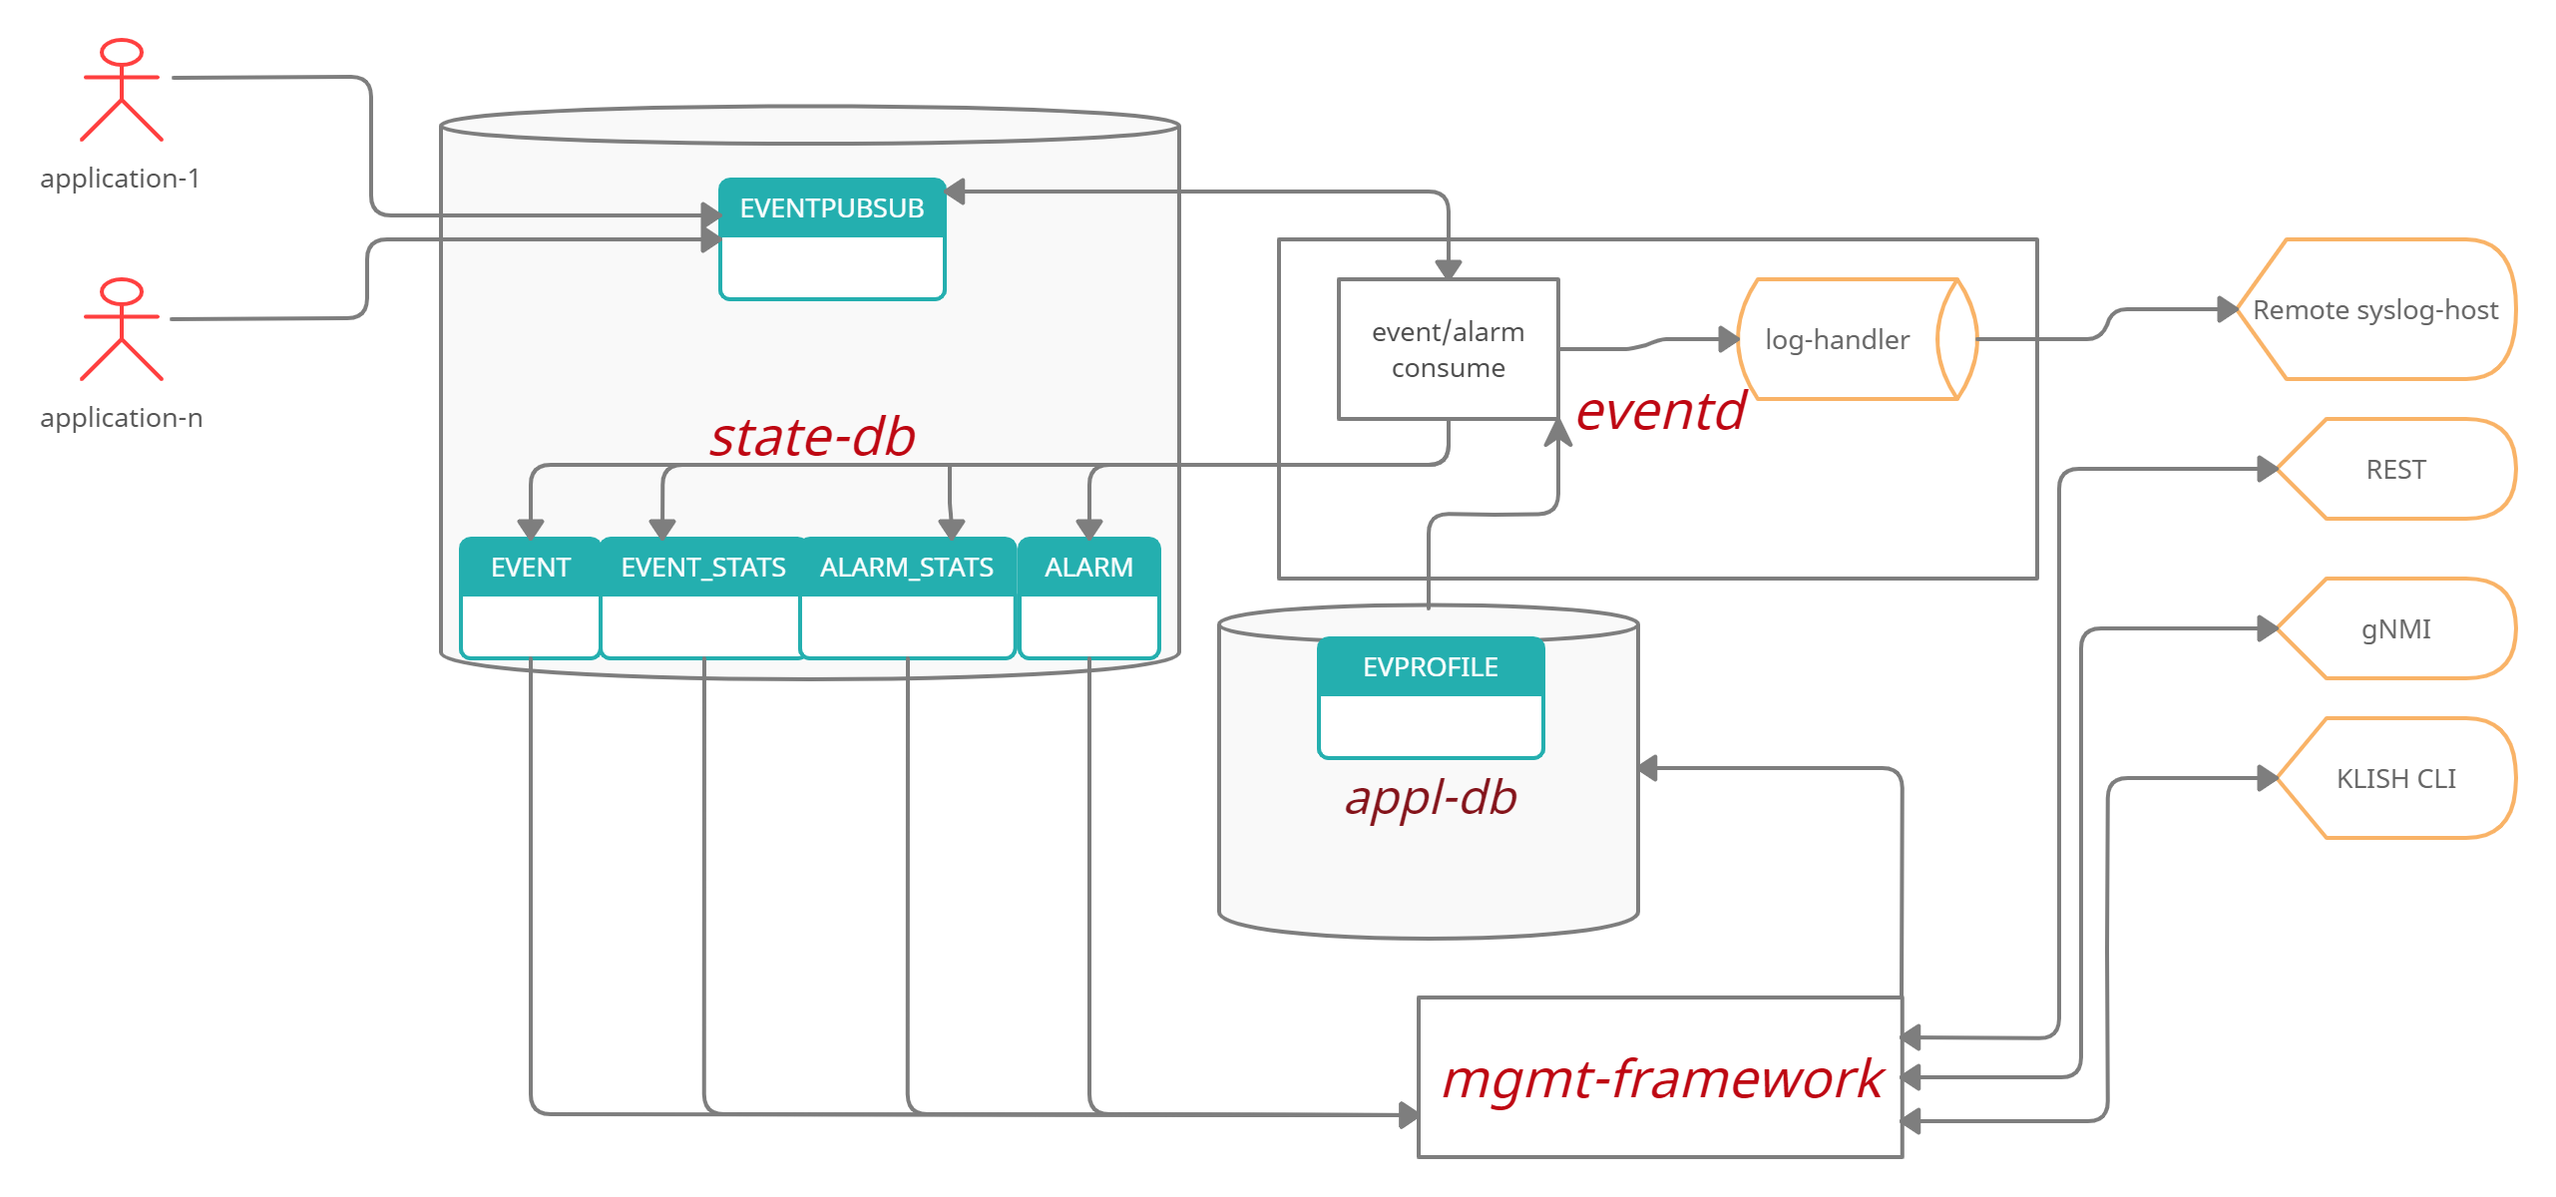
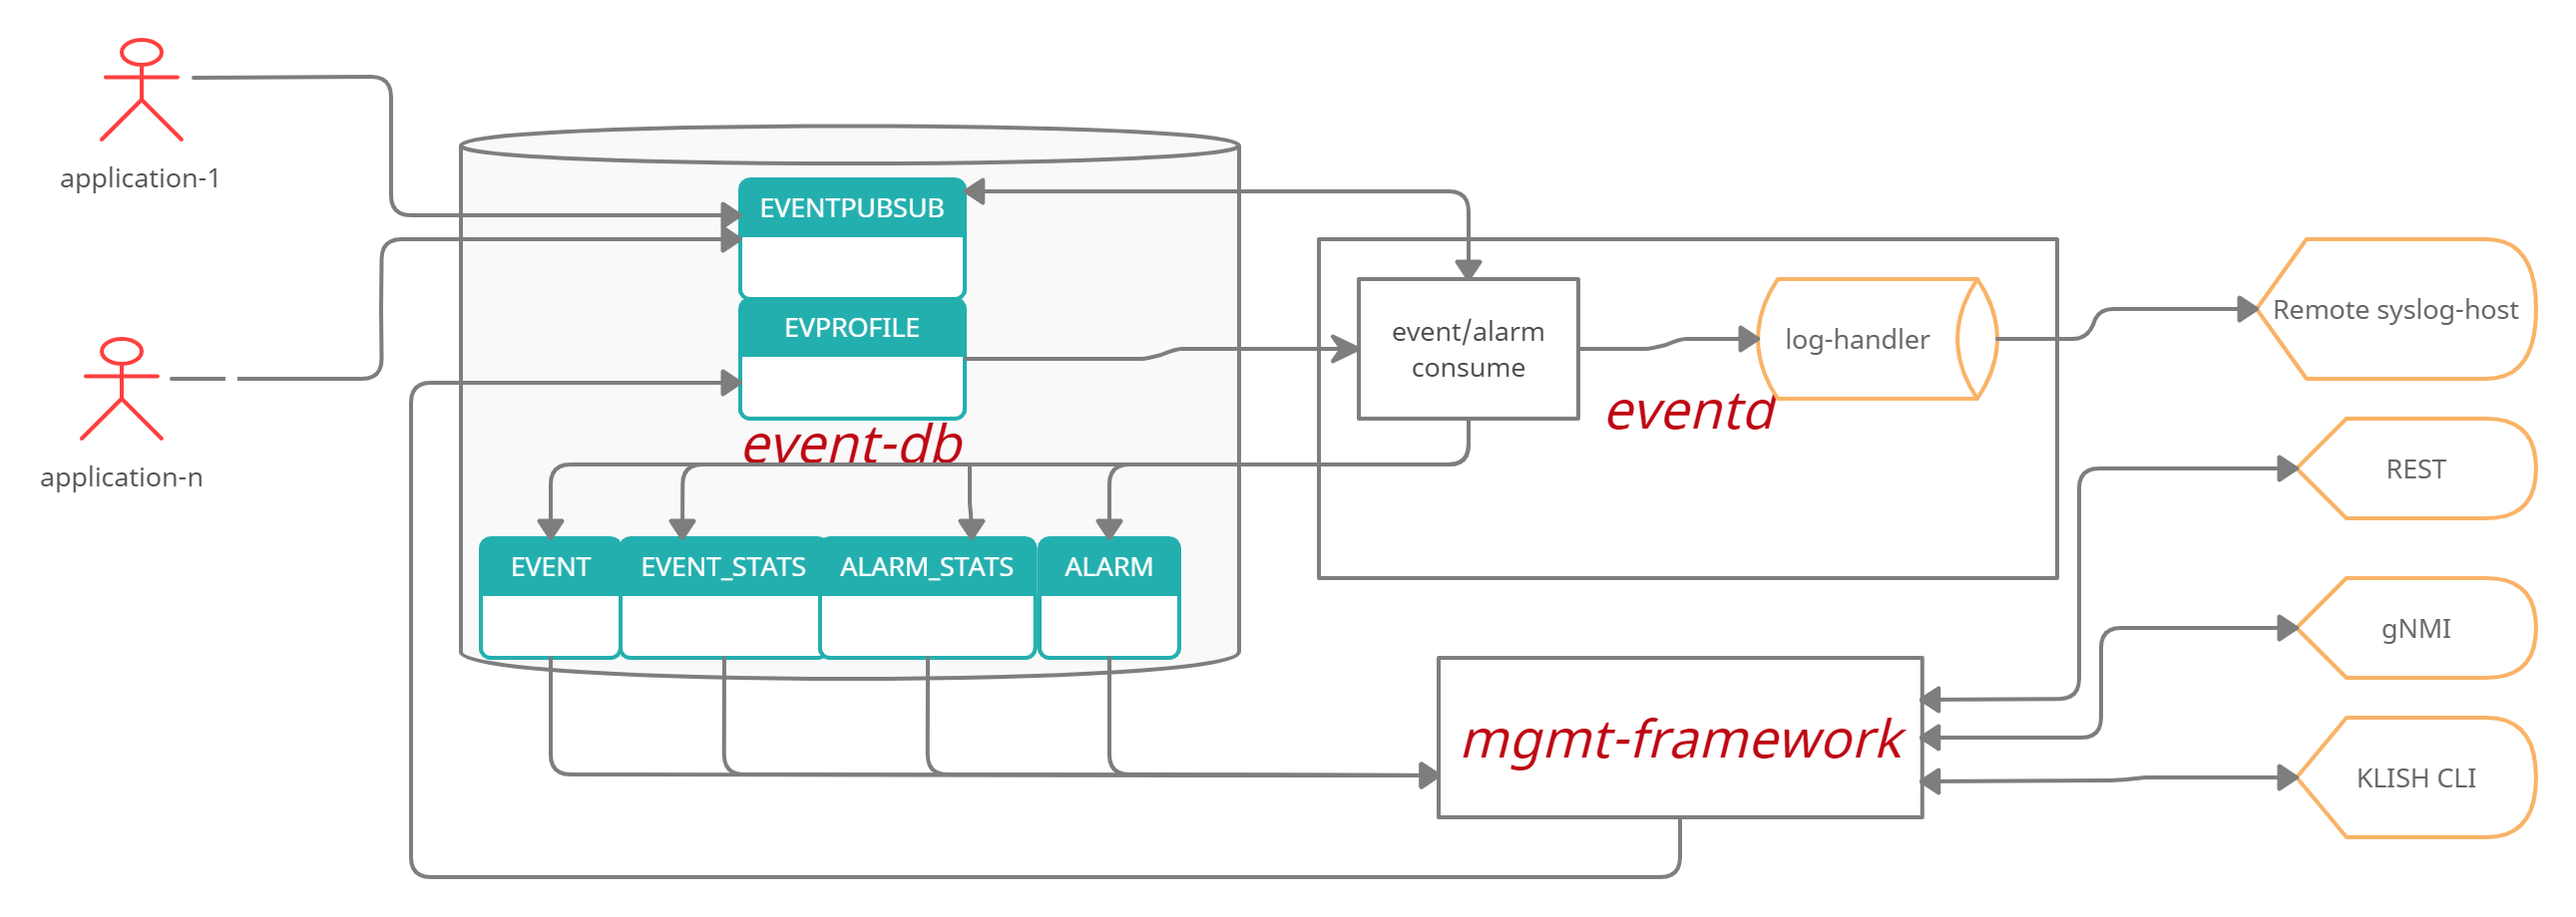
added information on the new DB

diff --git a/doc/event-alarm-framework/event-alarm-framework.md b/doc/event-alarm-framework/event-alarm-framework.md
@@ -37,8 +37,7 @@ Event and Alarm Framework
       * [3.1.8 Pull Model](#318-pull-model)
       * [3.1.9 Supporting third party containers](#319-supporting-third-party-containers)
     * [3.2 DB Changes](#32-db-changes)
-      * [3.2.1 STATE DB](#321-state-db)
-      * [3.2.2 APPL DB](#322-appl-db)
+      * [3.2.1 EVENT DB](#321-event-db)
     * [3.3 User Interface](#33-user-interface)
       * [3.3.1 Data Models](#331-data-models)
       * [3.3.2 CLI](#332-cli)
@@ -100,9 +99,9 @@ Such a change has an important metric called *severity* to indicate how critical
    An operator could *ACKNOWLEDGE/UNACKNOWLEDGE* an alarm. This indicates that the operator is aware of the faulty condition.
 
    The set of alarms and their severities are an indication to health of various applications of the system and System LED can be deduced from alarms.
-   An acknowledged alarm means that operator is aware of the condition so, acknowledged alarm should be taken out of consideration from deciding system LED state.
+   An acknowledged alarm means that operator is aware of the condition so, acknowledged alarm will be taken out of consideration.
 
-Both events and alarms get recorded in the STATE_DB.
+Both events and alarms get recorded in a new DB called EVENT DB in a new redis instance.
 
 1.  Event History Table
 
@@ -836,13 +835,14 @@ and are being evaluated.
 Approach 1 is preferred.
 
 ## 3.2 DB Changes
-### 3.2.1 STATE DB
+### 3.2.1 EVENT DB
+A new instance, redis4, is created and EVENT DB uses the new instance.
+The following tables uses Event DB.
 Table EVENTPUBSUB is used for applications to write events and for eventd to access and process them.
-Four other new tables are introduced. 
-Event History Table (EVENT) and Current Alarm Table (ALARM).
-To maintain various statistics of events, these two are introduced : EVENT_STATS and ALARM_STATS.
-### 3.2.2 APPL DB
-Application DB is used to house EVPROFILE table to communicate name of the custom event profile when configured through NBI. 
+Event History Table (EVENT) and Current Alarm Table (ALARM) are used to house events and alarms respectively.
+To maintain various statistics of events, these two tables are used : EVENT_STATS and ALARM_STATS.
+
+EVPROFILE table is used by mgmt-framework to communicate name of the custom event profile when configured through NBI. 
 Eventd reads the file name from this table and merges it with its static_event_map.
 
 ## 3.3 User Interface
